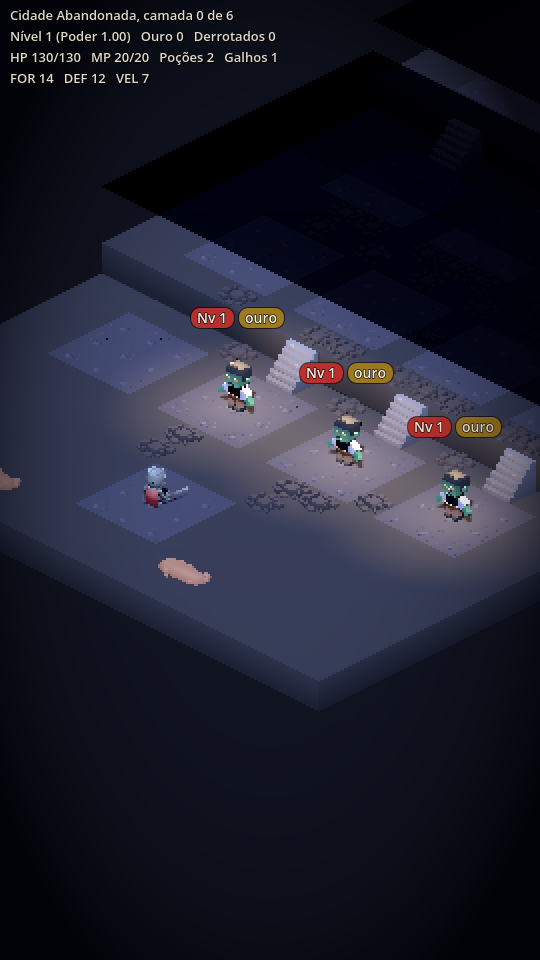
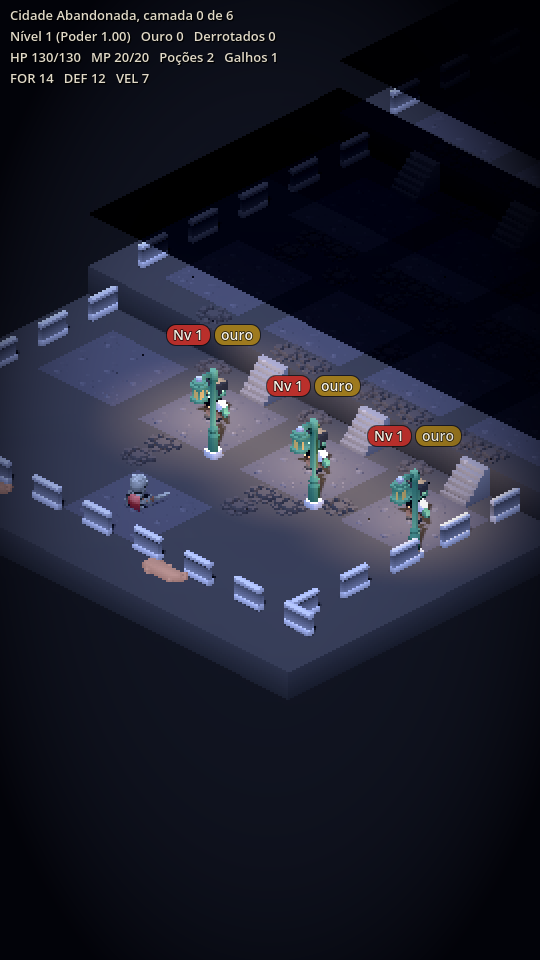
TASK-036: ajuste da câmera e do cenário do mapa; executável Windows de teste (ADR-0037)

diff --git a/docs/tasks/TASK-036-tabuleiro-3d-com-nevoa.md b/docs/tasks/TASK-036-tabuleiro-3d-com-nevoa.md
@@ -26,7 +26,7 @@ O mapa da Descida vira o **tabuleiro isométrico com altura** de `docs/ART-DIREC
 - [x] **Névoa de guerra por célula** (revelado, visível, oculto) em shader: destinos plenos; depois deles, escurecido e sem tipo; o chefe visível de longe e coberto de névoa; o já visitado esmaecido.
 - [x] **Câmera:** ortográfica isométrica; ao escolher um destino a Bibiana caminha (1 a 2 s, pulável) e a câmera desliza junto; ao chegar, a névoa recua em volta do novo nó (0,6 a 1 s). (A pré-visualização ao tocar num destino **não foi feita**: fica como melhoria, ver ADR-0037.)
 - [x] Toque mínimo de 48 px nos destinos; funciona em retrato 540x960; ligado ao `GameScreen` no lugar do `MapScreen` 2D, que fica como modo de depuração.
-- [ ] Print do mapa em três momentos (início, meio, perto do chefe) anexado, com as seis respostas do teste do print.
+- [x] Print do mapa em três momentos (início, meio, perto do chefe) anexado, com as seis respostas do teste do print.
 
 ## Arquivos afetados
 
@@ -55,7 +55,9 @@ Suíte em 2026-11-19: 326 testes, 326 passando (`test_map3d.gd`: planta determin
 5. Números sobre o mundo: **sim** (nível, recompensa, mutado).
 6. Retrato 540x960 e toque de 48 px: **sim** (áreas de 120 px, testado).
 
-**Limites:** (a) o chefe fica na borda da tela nas últimas camadas; a mira da câmera precisa de ajuste fino; (b) as lajes de estrada e de praça são lisas e o chão é pouco detalhado; (c) inimigos sem modelo próprio usam substitutos (ver `assets/LICENSES.md`); (d) o desempenho no celular não foi medido.
+**Ajuste de 2026-11-19 (pedido do Orlando):** a mira da câmera passou a incluir o chefe nas últimas camadas (agora aparece inteiro, com "Nv 7" e "chefe"), o zoom abriu para os três destinos caberem, e o tabuleiro ganhou muros baixos de borda e um lampião aceso ao lado de cada destino. Prints regerados.
+
+**Limites:** (a) ~~o chefe fica na borda~~ (resolvido); (b) as lajes de estrada e de praça são lisas e o chão é pouco detalhado; (c) inimigos sem modelo próprio usam substitutos (ver `assets/LICENSES.md`); (d) o desempenho no celular não foi medido.
 
 ## Revisão cruzada
 

diff --git a/AGENTS.md b/AGENTS.md
@@ -11,6 +11,7 @@ Resumo do que não pode ser quebrado:
 - Testes unitários rápidos verdes em headless antes do commit. **Enquanto não alcançar o MVP jogável (apresentação 3D, ADR-0036, TASK-040), não utilize recursos para simulador de balanceamento (`tools/simulate.gd`) nem testes muito complexos.**
 - Cada inimigo tem uma ficha em `docs/enemies/`; a regra de justiça (aviso, intervalo entre golpes de moeda) vale para todos.
 - **Tela ou gráfico: leia `docs/ART-DIRECTION.md` e o ADR-0036 antes.** O visual não é "provisório": GDD §17 e §18 mandam tabuleiro isométrico 3D com kits CC0. Tarefa de tela só fecha com print do jogo rodando com janela, anexado em `docs/tasks/prints/`.
+- **Executável de teste:** ao fim de cada tarefa que muda o jogo, rode `toolsbuild_windows.ps1` e informe o caminho do `.exe` (`buildwindowsBibianasQuest.exe` na pasta principal do repositório).
 - `docs/HANDOFF.md` atualizado ao fim da tarefa; pare e entregue o resumo.
 - Não envie ao GitHub sem o Orlando pedir.
 

diff --git a/docs/HANDOFF.md b/docs/HANDOFF.md
@@ -29,6 +29,8 @@ Atualizado em 2026-11-19. **O Orlando reprovou a apresentação da TASK-031** (2
 
 ## Como jogar
 
+**Mais fácil: o executável.** `powershell -ExecutionPolicy Bypass -File toolsbuild_windows.ps1 -Run` gera e abre `buildwindowsBibianasQuest.exe` (pasta principal do repositório, mesmo se rodar de uma worktree), sem abrir o Godot. Build de depuração, com os atalhos F1 a F4. Os templates 4.7.2 do Windows já estão instalados neste PC.
+
 Abra a **pasta raiz do repositório** no Godot 4.7 (Importar, `project.godot`) e aperte **F5**. A cena principal abre o `GameScreen`: "Nova Descida" gera o mapa do cenário 1 (cerca de 1,5 s) e leva a mapa, lutas, loja e fogueira provisórias, e fim; "Luta de teste (depuração)" abre o seletor de inimigo, nível e Poder. Se aparecer só uma tela escura com "regras vN", o Godot abriu uma cópia antiga do projeto (outra pasta ou worktree): confira que o caminho aberto é o da raiz do repositório atual.
 
 ## Feito

diff --git a/CLAUDE.md b/CLAUDE.md
@@ -126,6 +126,7 @@ Atributos: HP `hp`, MP `mp`, FOR `strength`, MEN `mind`, DEF `defense`, RES `res
 - Tarefa aberta com critérios de aceite, e todos atendidos.
 - ADR criado ou ligado para cada decisão.
 - Testes e simulações verdes em headless.
+- **Executável de teste:** ao fim de cada tarefa que muda o jogo, rode `powershell -ExecutionPolicy Bypass -File toolsbuild_windows.ps1` e informe ao Orlando o caminho do `.exe` (`buildwindowsBibianasQuest.exe` na pasta principal do repositório), para ele testar sem abrir o Godot.
 - **Tarefa de tela (ADR-0036): print do jogo rodando com janela, anexado em `docs/tasks/prints/`, e o "teste do print" de `docs/ART-DIRECTION.md` §8 respondido.** Suíte verde não prova que a tela está certa.
 - Revisão cruzada por outro modelo (etapa 4) feita ou registrada como pendente no HANDOFF.
 - GDD, ADRs e HANDOFF atualizados.
